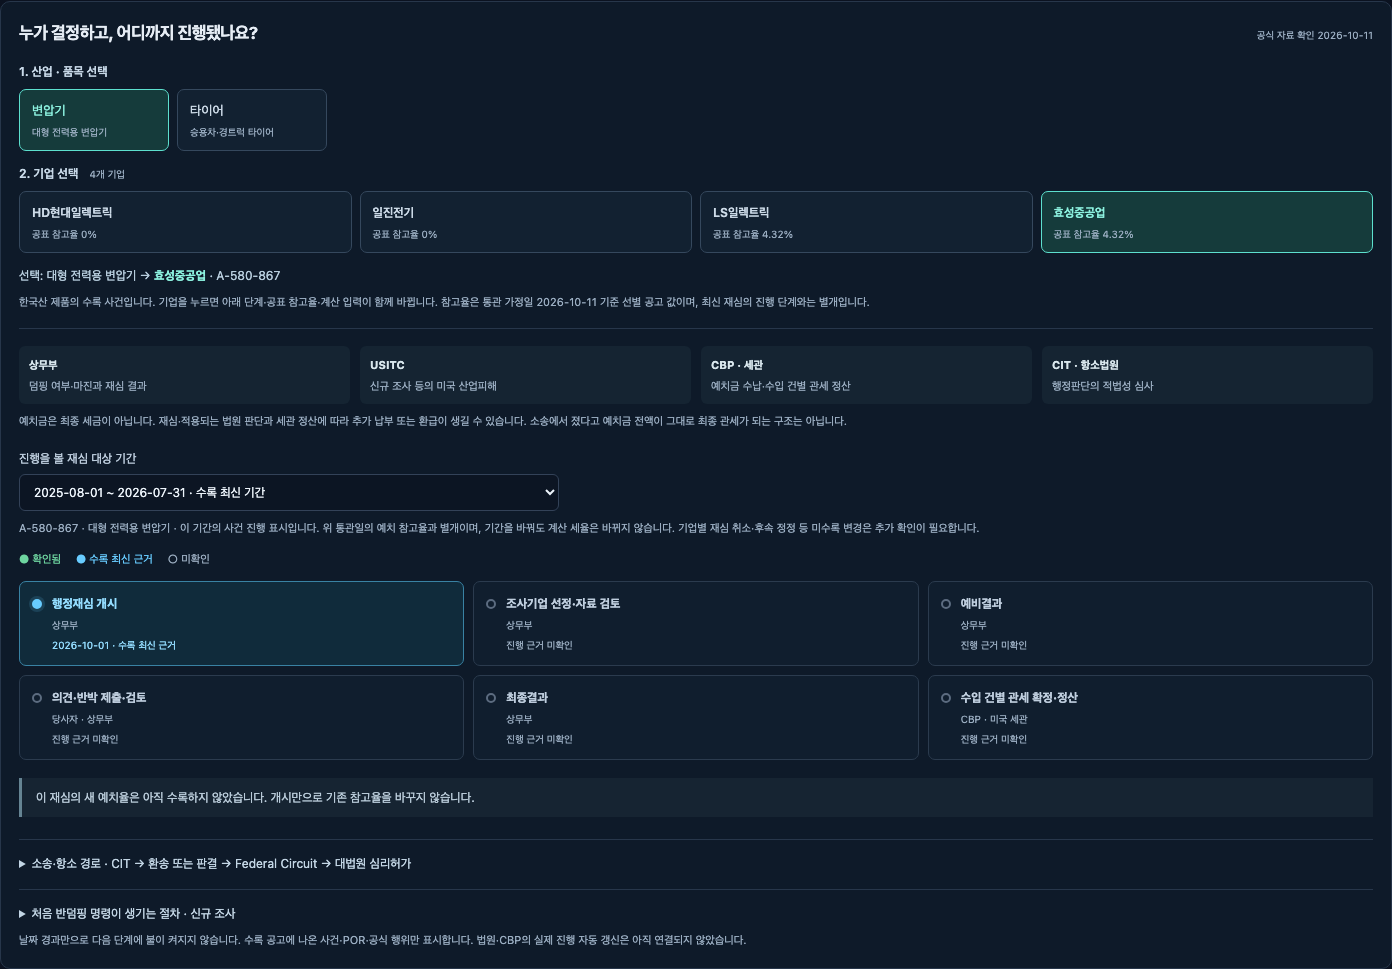
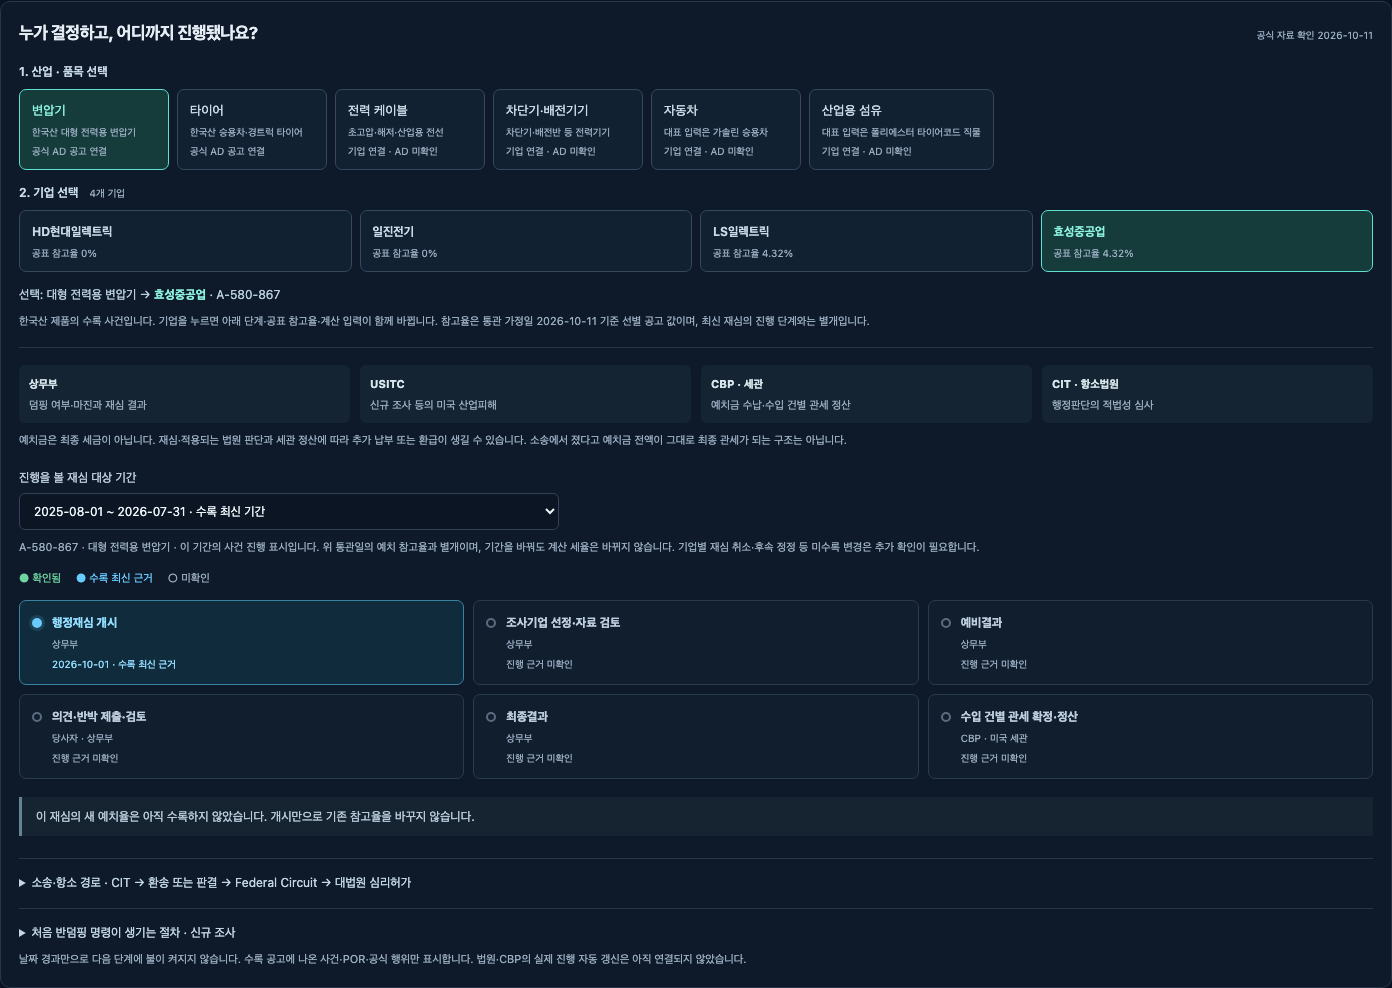
Expand simulator industry and company discovery with explicit AD coverage

diff --git a/New for anti/policy-simulator/style.css b/New for anti/policy-simulator/style.css
@@ -29,7 +29,7 @@
 .ts-ad-example{background:#19352e55;border:1px solid #315951;border-radius:8px;padding:12px;margin-bottom:17px;font-size:11px}.ts-ad-example>b{color:#b8eee1;font-size:13px}.ts-ad-example p{margin:7px 0;color:#b2c9c5}.ts-ad-example button,.ts-ad-periods button{background:#152b37;border:1px solid #355363;border-radius:5px;color:#cfe0eb;padding:6px 9px;font-size:11px}.ts-ad-example details{margin-top:12px}.ts-ad-example summary{cursor:pointer}.ts-ad-example dl{margin-bottom:0}.ts-ad-example dt{color:#d9e6f0;margin-top:10px}.ts-ad-example dd{margin:3px 0;color:var(--ts-muted)}
 .ts-ad-periods{display:flex;align-items:center;gap:7px;flex-wrap:wrap;margin-top:12px;font-size:11px;color:var(--ts-muted)}
 .ts-ad-selection{border-bottom:1px solid var(--ts-line);padding:3px 0 17px;margin-bottom:17px}.ts-ad-selection fieldset{border:0;padding:0;margin:0 0 13px;min-width:0}.ts-ad-selection legend{font-size:12px;color:#c8d9e8;padding:0;margin-bottom:8px;font-weight:600}.ts-ad-selection legend span{font-size:10px;color:var(--ts-muted);font-weight:400;margin-left:8px}.ts-ad-industries{display:flex;flex-wrap:wrap;gap:8px}.ts-ad-industries button,.ts-ad-companies button{border:1px solid #35485d;background:#122131;border-radius:7px;padding:10px 12px;color:#ccdae7;text-align:left;min-width:0}.ts-ad-industries button{min-width:150px}.ts-ad-selection button[aria-pressed=true]{border-color:#5de0ce;background:#153b3b;color:#8cf1df}.ts-ad-selection button:focus-visible{outline:2px solid #5de0ce;outline-offset:3px}.ts-ad-selection button small{display:block;color:var(--ts-muted);font-size:10px;margin-top:3px}.ts-ad-companies{display:grid;grid-template-columns:repeat(4,minmax(0,1fr));gap:8px}.ts-ad-companies b{font-size:12px;font-weight:600}.ts-ad-selection-context{margin:10px 0 0;font-size:12px;color:#b7cddd}.ts-ad-selection-context b{color:#8cf1df}
-@media(max-width:700px){.ts-ad-companies{grid-template-columns:repeat(2,minmax(0,1fr))}.ts-ad-industries button{flex:1;min-width:0}.ts-ad-selection button{padding:9px 10px}.ts-ad-process .ts-section-label{flex-wrap:wrap}}
+@media(max-width:700px){.ts-ad-industries{display:grid;grid-template-columns:repeat(2,minmax(0,1fr))}.ts-ad-companies{grid-template-columns:repeat(2,minmax(0,1fr))}.ts-ad-industries button{flex:1;min-width:0}.ts-ad-selection button{padding:9px 10px}.ts-ad-process .ts-section-label{flex-wrap:wrap}}
 .ts-ad-process{border:1px solid var(--ts-line);border-radius:10px;padding:18px;margin:20px 0 24px;background:#0e1a29}.ts-ad-process .ts-section-label{margin:0 0 12px}.ts-ad-roles{display:grid;grid-template-columns:repeat(4,minmax(0,1fr));gap:10px}.ts-ad-roles p{background:#152432;border-radius:6px;padding:10px;margin:0;font-size:11px}.ts-ad-roles b,.ts-ad-roles span{display:block}.ts-ad-roles b{color:#d9e7ed;margin-bottom:3px}.ts-ad-roles span{color:var(--ts-muted)}.ts-ad-process-picker{max-width:540px;margin-top:18px}.ts-ad-legend{display:flex;gap:15px;flex-wrap:wrap;font-size:11px;margin:13px 0;color:#9badc0}.ts-ad-legend span:first-child{color:#6ed5a0}.ts-ad-legend span:nth-child(2){color:#68ccff}
 .ts-ad-steps{display:grid;grid-template-columns:repeat(3,minmax(0,1fr));gap:9px;list-style:none;padding:0;margin:12px 0}.ts-ad-steps li{min-width:0;border:1px solid #2b3b4e;border-radius:7px;background:#101e2e;padding:12px;font-size:11px;overflow-wrap:anywhere}.ts-ad-steps summary{cursor:pointer;display:flex;gap:10px;align-items:flex-start;list-style:none}.ts-ad-steps summary::-webkit-details-marker{display:none}.ts-ad-steps summary:focus-visible{outline:2px solid #5de0ce;outline-offset:4px}.ts-ad-steps summary i{height:10px;width:10px;flex:none;border:2px solid #5c6c80;border-radius:50%;margin-top:5px}.ts-ad-steps summary b{color:#bfcede;font-size:12px}.ts-ad-steps summary small,.ts-ad-steps summary em{display:block;font-size:10px;color:var(--ts-muted);font-style:normal;margin-top:4px}.ts-ad-steps [data-state=confirmed] summary i{background:#6ed5a0;border-color:#6ed5a0}.ts-ad-steps [data-state=latest]{border-color:#3982a3;background:#102b3b}.ts-ad-steps [data-state=latest] summary i{border-color:#68ccff;background:#68ccff;box-shadow:0 0 0 3px #68ccff25}.ts-ad-steps [data-state=latest] summary b,.ts-ad-steps [data-state=latest] summary em{color:#94ddff}.ts-ad-steps p{margin:10px 0 0;color:#b7c9d7}.ts-ad-route{border-top:1px solid var(--ts-line);padding-top:14px;margin-top:16px;font-size:11px}.ts-ad-route>summary{cursor:pointer;color:#c3d6e5;font-size:12px}.ts-ad-route>p{color:var(--ts-muted)}
 @media(max-width:700px){.ts-ad-roles,.ts-ad-steps{grid-template-columns:repeat(2,minmax(0,1fr))}.ts-ad-process{padding:12px}.ts-ad-process h2{font-size:15px}}

diff --git a/docs/ops/TASKS.md b/docs/ops/TASKS.md
@@ -7,7 +7,7 @@
 
 | id | task | owner | files / scope | branch | status | note |
 |----|------|-------|---------------|--------|--------|------|
-| T51 | 정책·미국 국가·기업 관세 시뮬레이터 | codex | `New for anti/policy.js` 시뮬레이터 탐색 연결, `New for anti/policy-simulator/**`, 전용 preview·tests·docs | `codex/country-tariff-simulator-20261011` | review | 10/12 후속: 산업→기업선택 완료. 기업 시뮬레이터 LS일렉트릭 추가(총7개사), 공식 2025 연결 실적·개별 확인일·변압기 AD의 LS 법인 연결. 관련 Node27·7개사/LS 연결·360px 브라우저 통과. PR #528. 자동 감시·DB·수집·메일·운영 배포 제외. |
+| T51 | 정책·미국 국가·기업 관세 시뮬레이터 | codex | `New for anti/policy.js` 시뮬레이터 탐색 연결, `New for anti/policy-simulator/**`, 전용 preview·tests·docs | `codex/country-tariff-simulator-20261011` | review | 10/12 후속: 산업 선택 6개로 확대, 4개 새 품목의 기존 기업 연결·AD 미확인 표시·회사 손익 연결. 변압기/타이어 공식 AD 2개 사건 유지, 제품별 AD 링크 및 케이블 HTS 격리. Node33·기존 AD/확장 선택 브라우저·360px 통과. PR #528. DB·수집·메일·운영 배포 제외. |
 | ELECTION-STATE-INTEGRATION-20261010 | 선거 주별 스택·일일 게시 반복 충돌 방지와 A 통합 | codex | 주별 입력·오프라인 재생성·공용 로더·게시 재시도·검사·인수 문서; 기존 polling workflow 한 개 | `codex/election-state-integration-20261010` | review | NE 중지·보존. A CT/AL/NJ/NM/NH 입력 분리, 전국 생성물 PR 제외. polling 405·finance 68·federal 6·JS 51·ops 10 및 deploy-chain 39 통과. B AK/KS는 A main 반영 후. deploy.yml/UI/LETF 변경·병합·배포·workflow dispatch 없음. |
 | COMMODITY-MONTHLY-20261007 | 월별 총계 선택·갱신·Cloudflare 관세청 키 연결·최신성 감시 | codex | commodity_trade 수집·검증·데이터, `_worker.js` 월별 조회/보호 중계, 전용 refresh/watchdog workflow, 소유권 scope tests·인수 문서 | `codex/commodity-monthly-automation` | review | 사용자 2026-10-07 진행 지시. Worker·전용 workflow 2개만 정확한 브랜치 예외. UI·wrangler·공용 deploy 변경 금지. 병합/배포 미실행, 중계 토큰 설정 및 운영 한국 호출은 인수 후 검증. |
 | SHIPPING-HISTORY-20261007 | 선종별 추정 교역량 1년·2년 그래프 | codex | `New for anti/shipping.js`, 해운 artifact 이력 계약·테스트·JSON 4종, 전용 handoff | `codex/chokepoint-history-2y` | **review** | 병합된 #454 후속. 3/6개월 유지 + 1/2년 추가, 실제 730일 이력 포함·연도 축·자료 범위 안내. Python 167 통과/2 skip, Node 17·스키마 4종/golden·데스크톱/360px 확인. 다른 UI·workflow·모델 수식·ACP 제외. 미배포, Claude 통합 담당. handoff: `docs/ops/handoff/2026-10-07-codex-chokepoint-history-2y.md`. |

diff --git a/docs/ops/handoff/2026-10-11-codex-country-tariff-simulator.md b/docs/ops/handoff/2026-10-11-codex-country-tariff-simulator.md
@@ -91,3 +91,11 @@ git push -u origin codex/country-tariff-simulator-20261011
 - 회사 공식 요약손익계산서의 2025 연결 매출 4,965,799백만원·영업이익 426,407백만원을 참고 자료로 저장. 확인일 2026-10-12는 이 프로필에만 부여하고 기존 6개사의 10/11 확인일을 유지. 전사 매출을 미국향 제품 가격·원가로 사용하지 않음.
 - 관련 Node27 및 기존 반덤핑/기업 브라우저 통과: 7개사 선택, LS 자료·단위·확인일, 빈 거래 입력, LS AD 4.32% 공표 참고율 연결, 360px 확인. 캡처: docs/previews/company-ls-electric-{desktop,mobile}.png.
 - 같은 PR #528 후속, 로컬 화면 LS일렉트릭 선택 상태로 표시. 병합·운영 배포·DB·수집·메일 변경 없음.
+
+
+### 2026-10-12 산업·기업 탐색 확대와 계산 점검
+- 반덤핑 상단을 6개 품목으로 확대: 기존 변압기/타이어에 케이블(LS전선·대한전선), 차단기·배전기기(LS일렉트릭·효성중공업), 자동차(기아), 산업용 섬유(HS효성첨단소재). 신규 AD 사건/세율 조사 완료로 표시하지 않음.
+- 새 네 품목의 AD 자료는 미확인. 기존 세율·계열사율·POR 단계·계산/저장을 이어 붙이지 않음. 필요한 자료 안내와 기업 손익 화면 연결. 케이블은 custom으로 시작해 대표 HTS를 강제하지 않음.
+- 기업 제품 변경 시 해당 제품과 일치하는 AD 사건만 연결. 원산지·거래·원가는 공란. 기존 직접 확인 예치율 경로는 유지.
+- ‘모델이 안 된다’ 요청 점검: 기존 계산/상단 선택 브라우저 통과, 화면 오류 미발견. 실제 사용자 화면의 범위·법인 확인란 미선택을 확인했으며 계산 시 각각 해당 항목으로 안내·포커스되는 것을 추가 검증. 이후 사용자 확인 결과 Codex AI 모델 선택·실행 문제를 지칭했으며 시뮬레이터 결함 신고가 아님. Codex 진단은 별도로 진행.
+- 이번 후속: 관련 Node33, 기존 반덤핑 및 확장 선택 브라우저 통과. 360px 검증. PR #528 후속이며 병합·운영 배포·DB·수집·메일 변경 없음.
